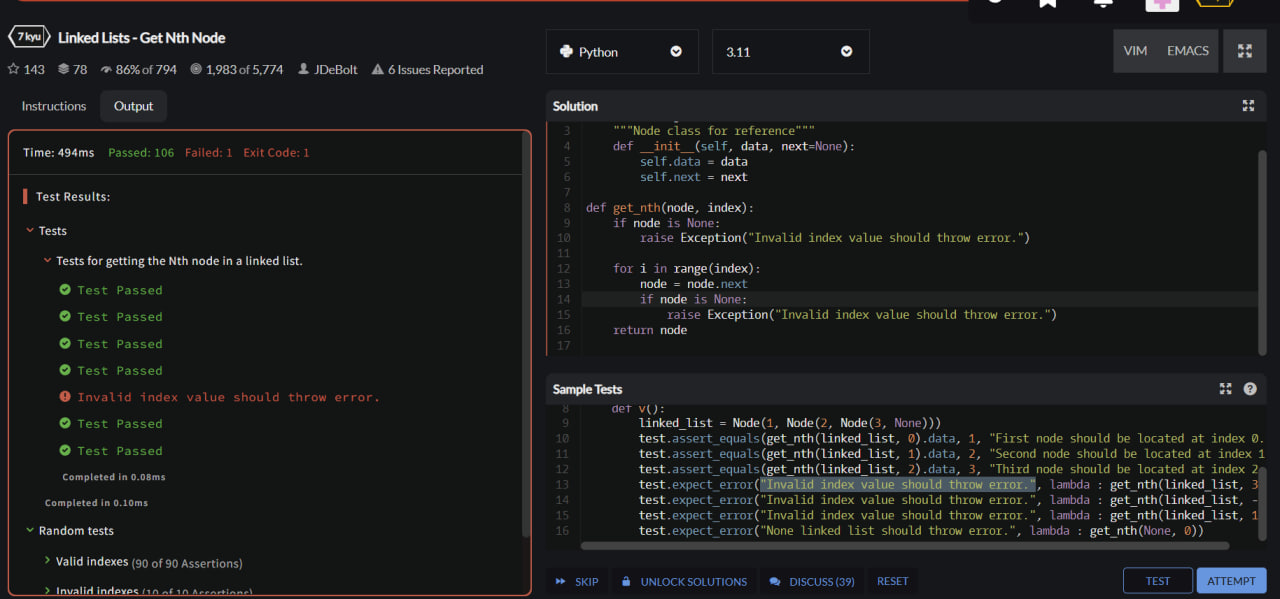
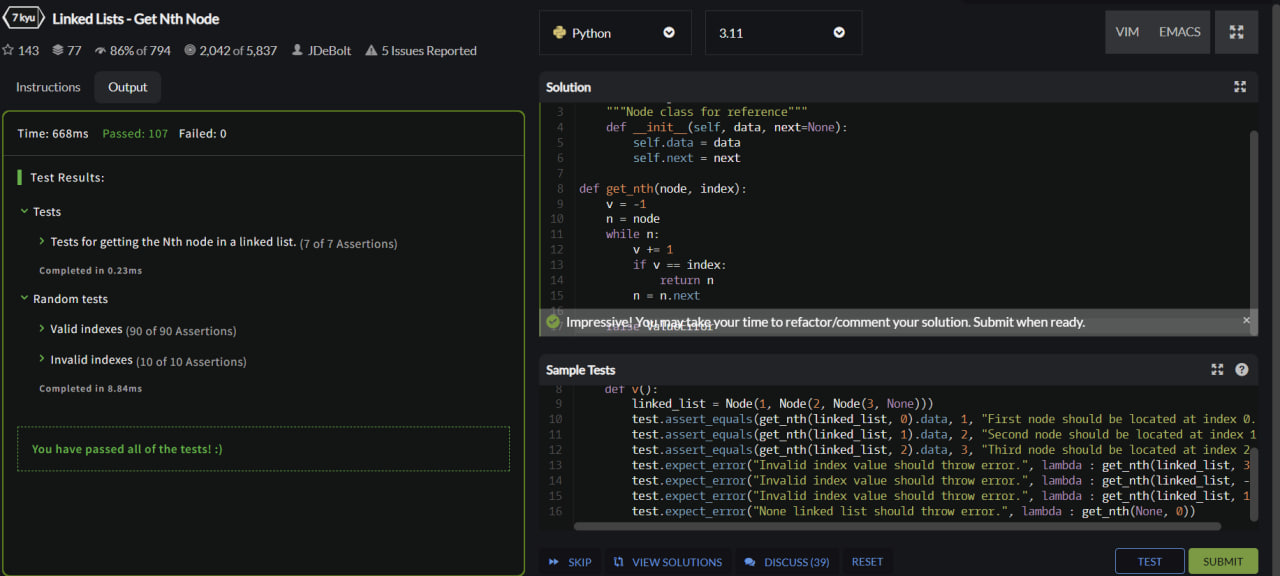
Added new solution to 'Get nth Node'

Changed region(s): [[0.0, 0.0, 1.0, 1.0], [0.0, 0.875, 0.7188, 1.0], [0.6562, 0.0625, 0.6875, 0.0938]]

diff --git a/Linked Lists - Get Nth Node/solution4.py b/Linked Lists - Get Nth Node/solution4.py
@@ -4,14 +4,14 @@ class Node(object):
     def __init__(self, data, next=None):
         self.data = data
         self.next = next
-    
+
 def get_nth(node, index):
-    if node is None:
-        raise Exception("Invalid index")
+    v = -1
+    n = node
+    while n:
+        v += 1
+        if v == index:
+            return n
+        n = n.next
     
-    for i in range(index):
-        node = node.next
-        if node is None:
-            raise Exception("Invalid index")
-    return node
-  
+    raise ValueError
